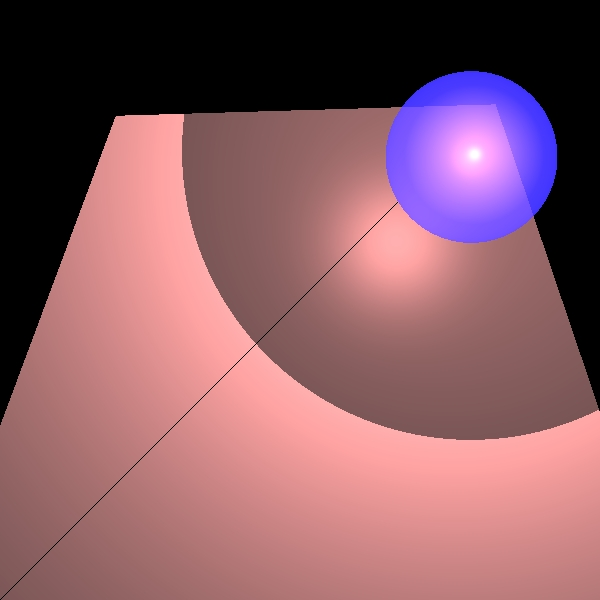
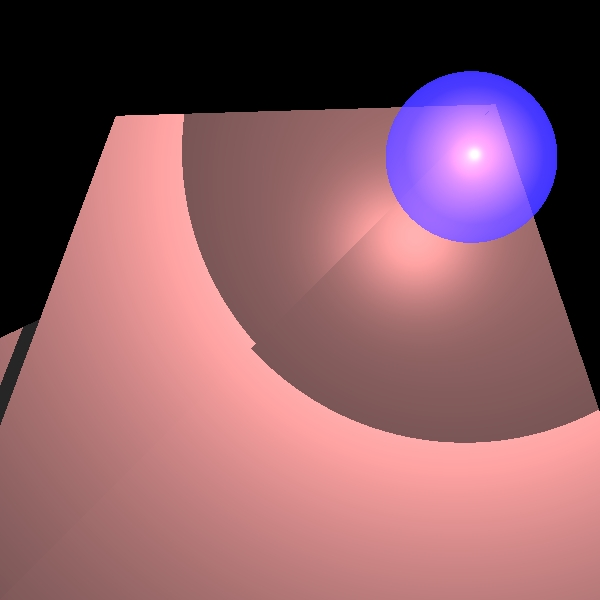
7 בונוס

diff --git a/Tar_1/Testing/renderer/ReflectionRefractionTests.java b/Tar_1/Testing/renderer/ReflectionRefractionTests.java
@@ -3,6 +3,7 @@ package renderer;
 /**
  *
  */
+import geometries.Polygon;
 import org.junit.jupiter.api.Test;
 
 import elements.*;
@@ -122,6 +123,86 @@ public class ReflectionRefractionTests {
                 new Point3D(60, -50, 0), new Vector(0, 0, 1), 1, 4E-5, 2E-7));
 
         ImageWriter imageWriter = new ImageWriter("shadow with transparency", 200, 200, 600, 600);
+        Render render = new Render(imageWriter, scene);
+
+        render.renderImage();
+        render.writeToImage();
+    }
+
+    /**
+     * Produce a picture of a two triangles one of them a miriror lighted by a spot light with a partially transparent Sphere  producing  shadow
+     * and a  regular sphere with high diffuse parameter producing reflation
+     */
+
+    @Test
+    public void allefectTest() {
+        Scene scene = new Scene("Test scene");
+        scene.setCamera(new Camera(new Point3D(0, 0, -1000), new Vector(0, 0, 1), new Vector(0, -1, 0)));
+        scene.setDistance(1000);
+        scene.setBackground(Color.BLACK);
+        scene.setAmbientLight(new AmbientLight(new Color(java.awt.Color.WHITE), 0.15));
+
+        scene.addGeometries( //
+                new Triangle(Color.BLACK, new Material(0.5, 0.5, 60), //
+                        new Point3D(-150, 150, 115), new Point3D(150, 150, 135), new Point3D(75, -75, 150)), //
+                new Triangle(Color.BLACK, new Material(0, 0, 0, 0, 0.2), //
+                        new Point3D(-150, 150, 115), new Point3D(-70, -70, 140), new Point3D(75, -75, 150)), //
+                new Sphere(new Color(java.awt.Color.BLUE), new Material(0.2, 0.2, 30, 0.6, 0), // )
+                        28, new Point3D(55, -10, 50)),
+                new Sphere(new Color(java.awt.Color.red), new Material(1, 0.25, 5,0.3, 0), // )
+                        25, new Point3D(-30, -30, 50)));
+
+
+        scene.addLights(new SpotLight(new Color(600, 400, 400), //
+                new Point3D(50, -50, 0), new Vector(0, 0, 1), 1, 4E-5, 2E-7));
+
+        ImageWriter imageWriter = new ImageWriter("allefectTest", 200, 200, 600, 600);
+        Render render = new Render(imageWriter, scene);
+
+        render.renderImage();
+        render.writeToImage();
+    }
+    @Test
+
+    public void allefectTest10sheapBounos() {
+        Scene scene = new Scene("Test scene");
+        scene.setCamera(new Camera(new Point3D(0, 0, -1000), new Vector(0, 0, 1), new Vector(0, -1, 0)));
+        scene.setDistance(1000);
+        scene.setBackground(new Color(20,20,200));
+        scene.setAmbientLight(new AmbientLight(new Color(java.awt.Color.WHITE), 0.15));
+
+        scene.addGeometries( //
+               new Triangle(Color.BLACK, new Material(0.5, 0.5, 60), //
+                        new Point3D(-55, 10, 130),  new Point3D(-30, 49, 115),new Point3D(-80, 49, 115)), //
+                 new Sphere(new Color(java.awt.Color.yellow), new Material(0.2, 0.2, 30, 0, 0), // sun
+                        50, new Point3D(70, -70, 0)),
+                new Sphere(new Color(java.awt.Color.orange), new Material(0.2, 0.2, 70, 0.5, 0.8), // inside sun1
+                        30, new Point3D(70, -70, -10)),
+                new Sphere(new Color(java.awt.Color.RED), new Material(0.2, 0.2, 50, 0.9, 0), // inside sun2
+                        20, new Point3D(70, -70, -30)),
+
+                new Sphere(new Color(java.awt.Color.white), new Material(0.2, 0.2, 50, 0.9, 0), //cloude
+                        20, new Point3D(-70, -60, -30)),
+                new Sphere(new Color(java.awt.Color.white), new Material(0.2, 0.2, 50, 0.9, 0), //cloude
+                        20, new Point3D(-60 ,-50, -30)),
+                new Sphere(new Color(java.awt.Color.white), new Material(0.2, 0.2, 50, 0.9, 0), //cloude
+                        20, new Point3D(-40 ,-65, -30)),
+
+                new Polygon(new Color(java.awt.Color.BLACK), new Material(1, 0.25, 5,0.3, 0) ,
+                        new Point3D(20, 110, 115), new Point3D(40, 110, 115), new Point3D(40, 50, 115),new Point3D(20, 50, 115)),
+
+                new Triangle(new Color(java.awt.Color.green), new Material(0.5, 0.5, 60), //
+                        new Point3D(30, -20, 130),  new Point3D(15, 50, 115),new Point3D(45, 50, 115)), //
+                new Polygon(new Color(java.awt.Color.red), new Material(1, 0.25, 5,0.3, 0) ,
+                        new Point3D(-80, 110, 115), new Point3D(-30, 110, 115), new Point3D(-30, 50, 115),new Point3D(-80, 50, 115)));
+
+
+
+
+        scene.addLights(new SpotLight(new Color(600, 400, 400), //
+                new Point3D(50, -50, 0), new Vector(0, 0, 1), 1, 4E-5, 2E-7));
+
+        ImageWriter imageWriter = new ImageWriter("bonusTest", 200, 200, 600, 600);
         Render render = new Render(imageWriter, scene);
 
         render.renderImage();

diff --git a/Tar_1/src/renderer/Render.java b/Tar_1/src/renderer/Render.java
@@ -13,8 +13,8 @@ import static primitives.Util.alignZero;
 public class Render {
 
     private static final  double DELTA=0.1;
-    private static final int MAX_CALC_COLOR_LEVEL = 50; //the max recrusiv calc
-    private static final double MIN_CALC_COLOR_K = 0.000000000000001;
+    private static final int MAX_CALC_COLOR_LEVEL = 40; //the max recrusiv calc
+    private static final double MIN_CALC_COLOR_K = 0.000000001;
 
 
     private Scene _scene;
